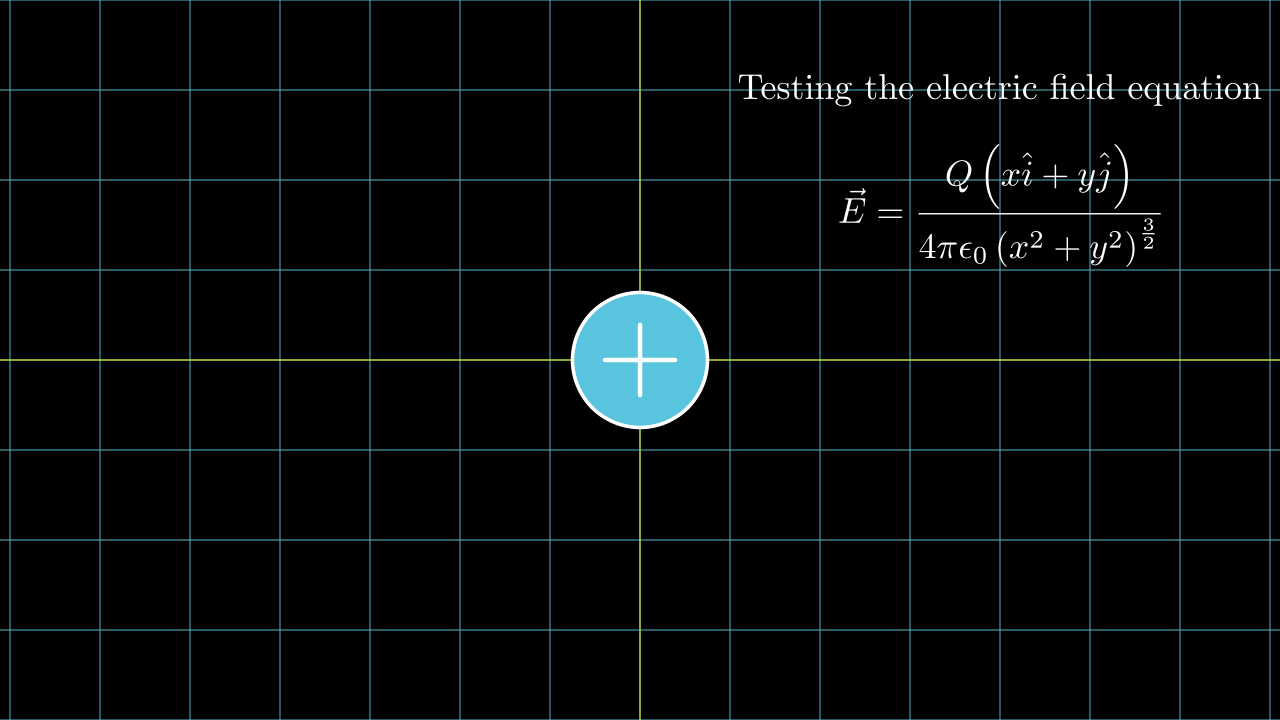
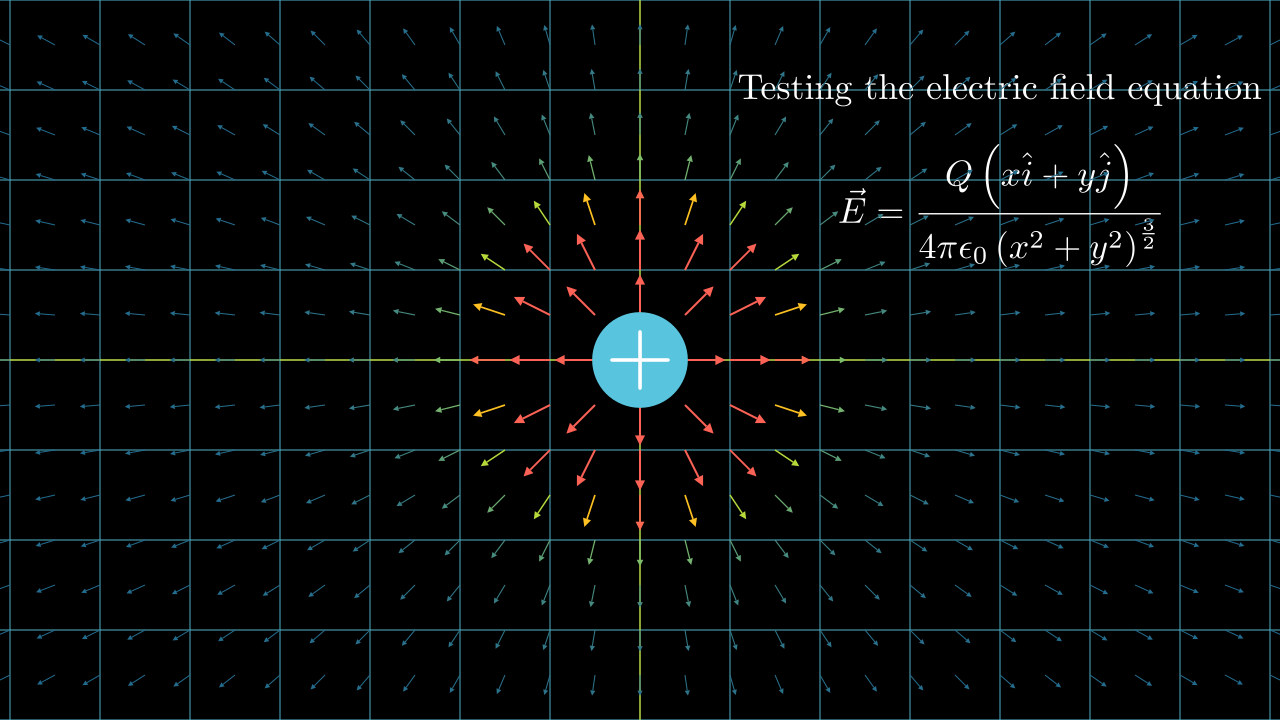
ElectricParticle

diff --git a/manim_Killy/ElectricParticle.py b/manim_Killy/ElectricParticle.py
@@ -2,6 +2,7 @@ from manim import *
 
 class ElectricParticle(Scene):
     def construct(self):
+        #Adds the grid onto number plane
         number_plane = NumberPlane(  
             x_range=[-10, 10, 1],
             y_range=[-10, 10, 1],
@@ -17,22 +18,30 @@ class ElectricParticle(Scene):
             },
         )
         self.add(number_plane)
+        
+        #function to determine the slope in 
+        #the x,y direction for a point(x,y)
         def Slope(pos):
+            '''pos parameter has pos[0]=x and pos[1]=y
+                        
+            function to determine the slope in 
+            the x,y direction for a point(x,y)'''
             test=(np.power(pos[0],2)+np.power(pos[1],2))
             if test!=0:
                 denom=np.power(test,5/2)
                 return (10*pos[0]/denom)*RIGHT + (10*pos[1]/denom)*UP
             else:
-                return 0*UP +0*RIGHT
-        
-        mob=StreamLines(Slope)
+                return 0*UP +0*RIGHT       
+            
+        #Adds Text Onto Screen
         text=Tex("Testing the electric field equation").scale(0.8).move_to(UP*3+RIGHT*4)
-        self.add(mob)
-        self.add(MathTex(r"\vec{E}=\frac{Q\left ( x\hat{i}+y\hat{j} \right )}{4\pi\epsilon_{0}\left ( x^{2}+y^{2} \right )^{\frac{3}{2}}}").next_to(text,DOWN*1).scale(0.8))
-        self.add(Circle(
-            radius=0.75,fill_opacity=1, fill_color=BLUE, stroke_color=WHITE
-                ))
-        self.add(MathTex("+").scale(2.5))
         self.add(text)
-        mob.start_animation(time_width=1)
-        self.wait(1)
+        self.add(MathTex(r"\vec{E}=\frac{Q\left ( x\hat{i}+y\hat{j} \right )}{4\pi\epsilon_{0}\left ( x^{2}+y^{2} \right )^{\frac{3}{2}}}").next_to(text,DOWN*1).scale(0.8))
+        
+        # creates the arrows that indicate direction
+        # and magnitude of electric Feild
+        mob=ArrowVectorField(Slope)
+        self.add(mob)
+        
+        #adds Proton To Image
+        self.add(LabeledDot(Tex("+", color=WHITE), color=BLUE).scale(2) )

diff --git a/manim_Killy/media/Tex/810eb05ce595f37b.tex b/manim_Killy/media/Tex/810eb05ce595f37b.tex
@@ -1,0 +1,13 @@
+\documentclass[preview]{standalone}
+
+\usepackage[english]{babel}
+\usepackage{amsmath}
+\usepackage{amssymb}
+
+\begin{document}
+
+\begin{center}
+42
+\end{center}
+
+\end{document}

diff --git a/manim_Killy/media/Tex/8e6bcf61491e43f2.tex b/manim_Killy/media/Tex/8e6bcf61491e43f2.tex
@@ -1,0 +1,13 @@
+\documentclass[preview]{standalone}
+
+\usepackage[english]{babel}
+\usepackage{amsmath}
+\usepackage{amssymb}
+
+\begin{document}
+
+\begin{center}
++
+\end{center}
+
+\end{document}
